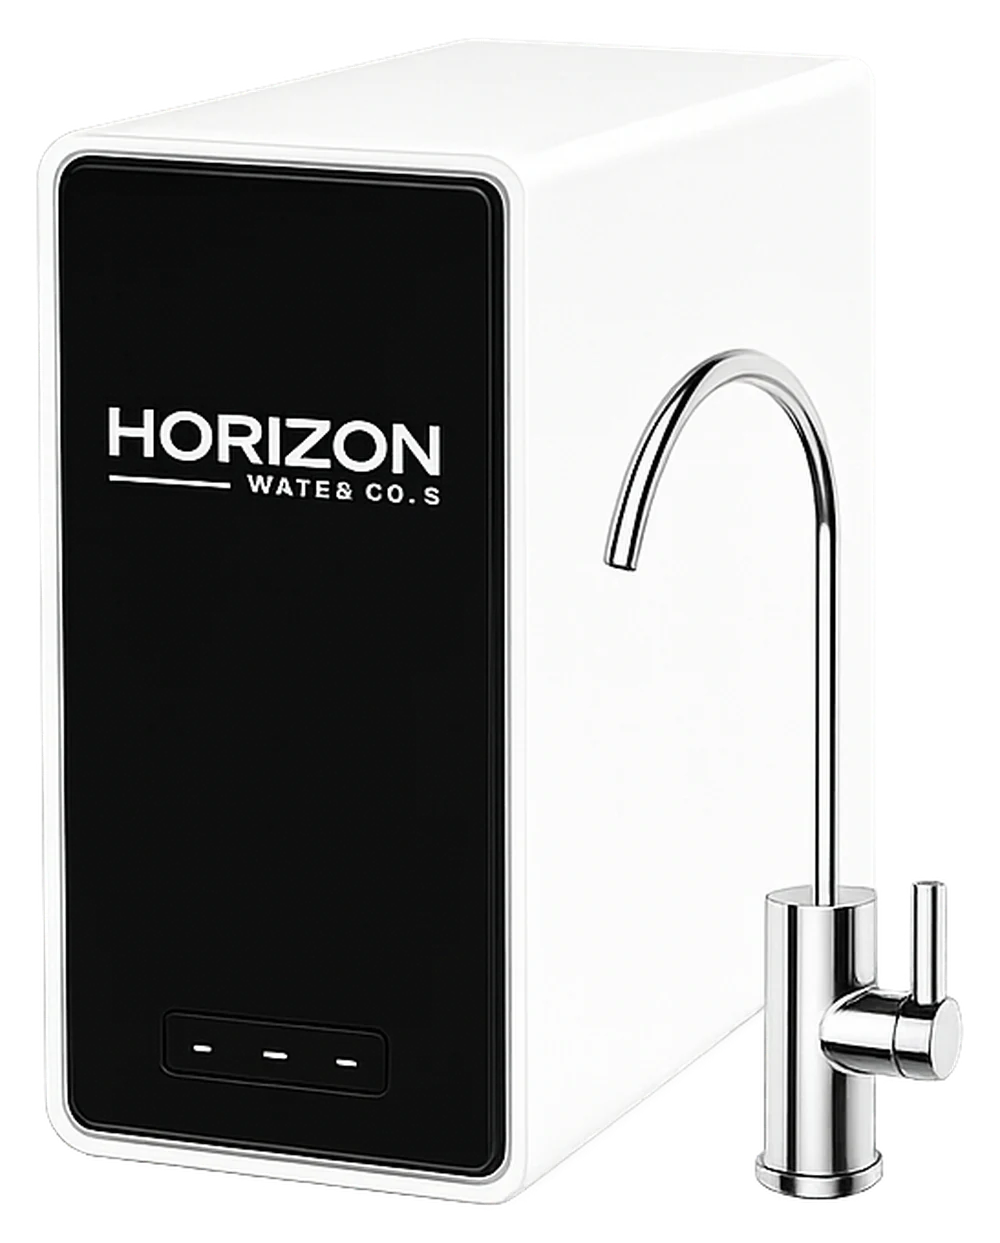
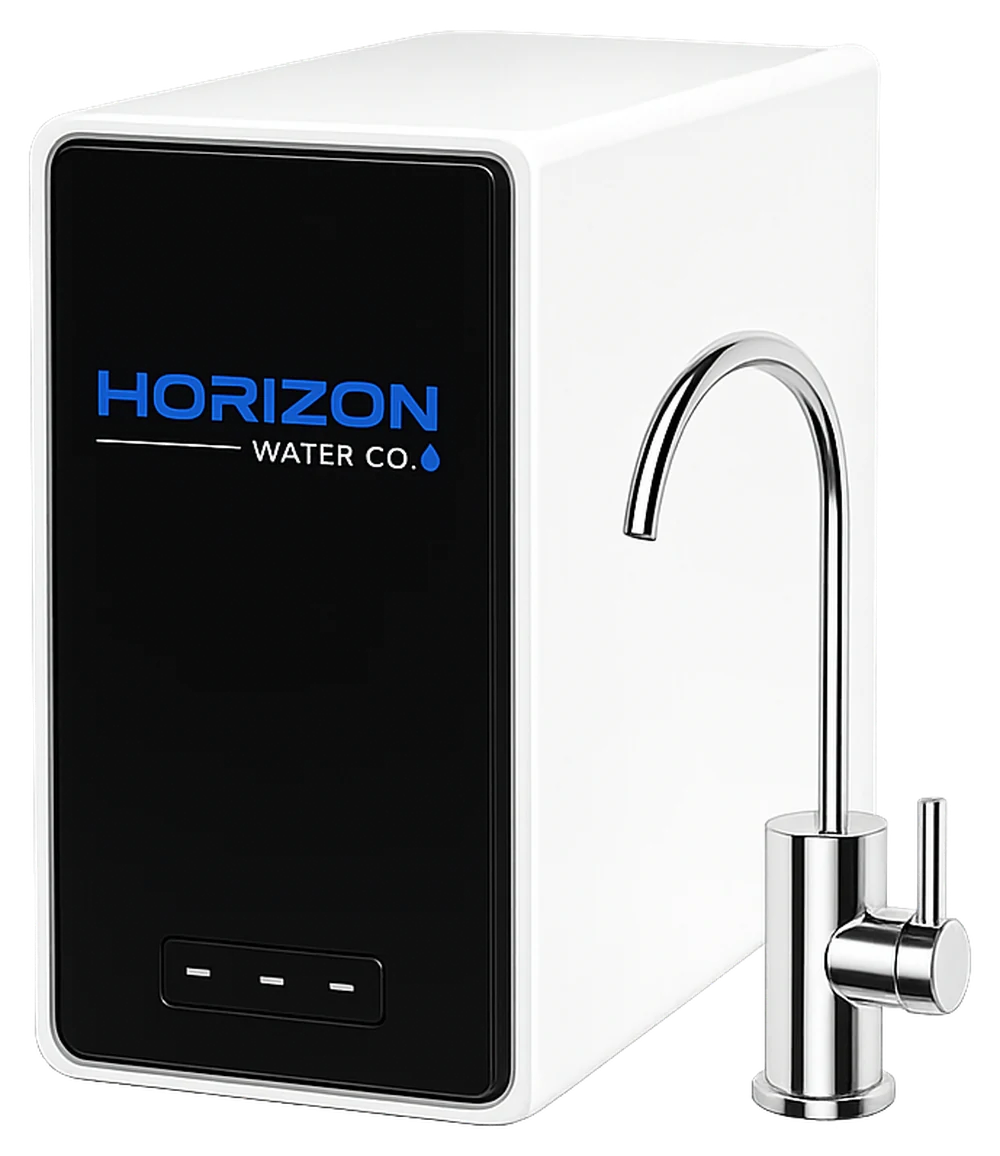
Fix RO breakout photo with corrected branded text (#32)
Replaces the previous RO product shot, which had a garbled 'WATE& CO. S'
text artifact on the unit's screen, with the corrected version.

diff --git a/index.html b/index.html
@@ -474,7 +474,7 @@ src="https://www.facebook.com/tr?id=2530401494062761&ev=PageView&noscript=1"
     <div class="breakout reverse">
       <div class="imgcol"><picture>
         <source srcset="images/ro-branded.webp" type="image/webp" />
-        <img src="images/ro-branded.png" alt="Horizon Water Co branded reverse osmosis drinking water system" width="1000" height="1243" loading="lazy" decoding="async" />
+        <img src="images/ro-branded.png" alt="Horizon Water Co branded reverse osmosis drinking water system" width="1000" height="1156" loading="lazy" decoding="async" />
       </picture></div>
       <div class="txtcol">
         <span class="tag">Best Drinking Water</span>
